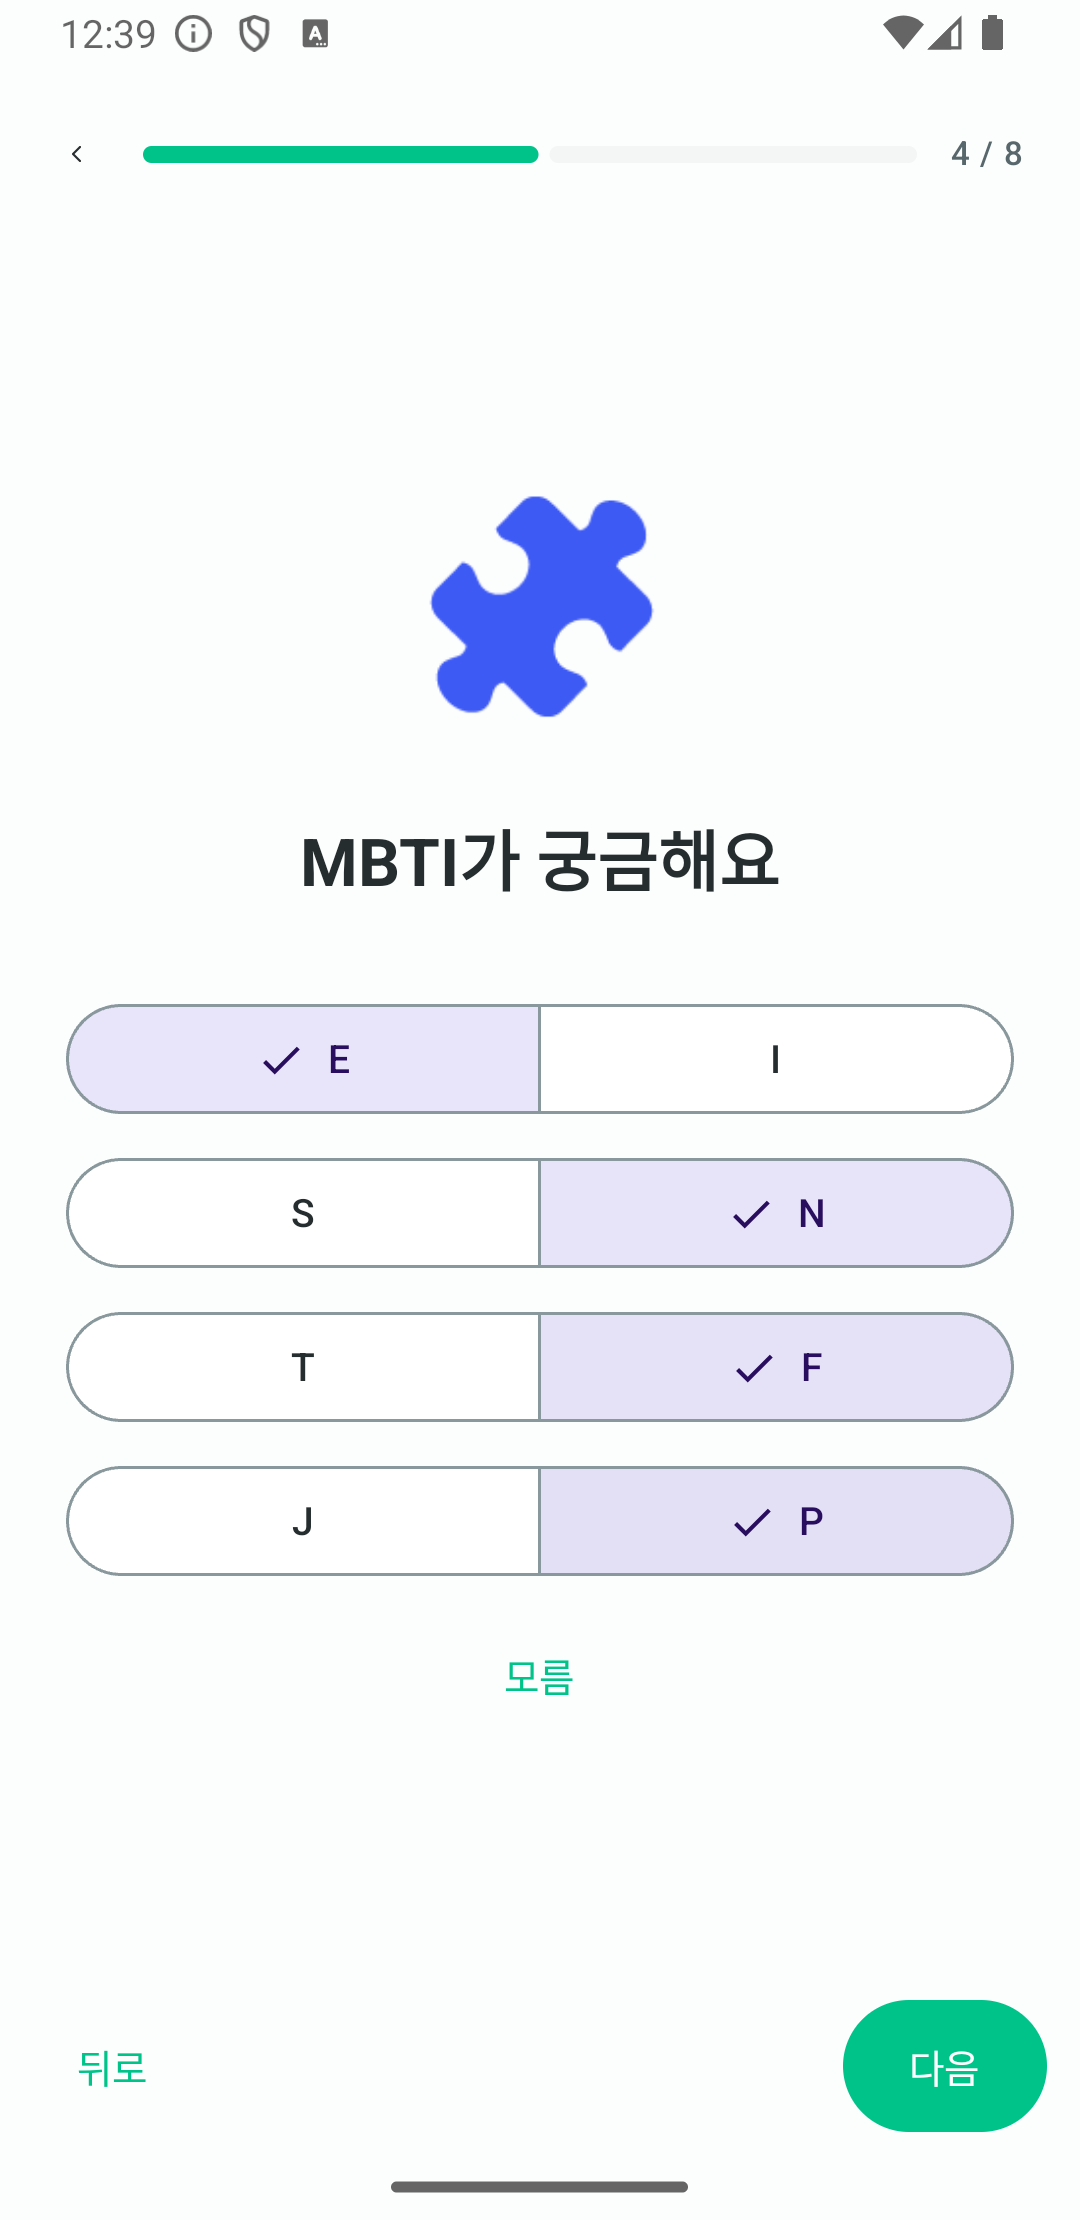
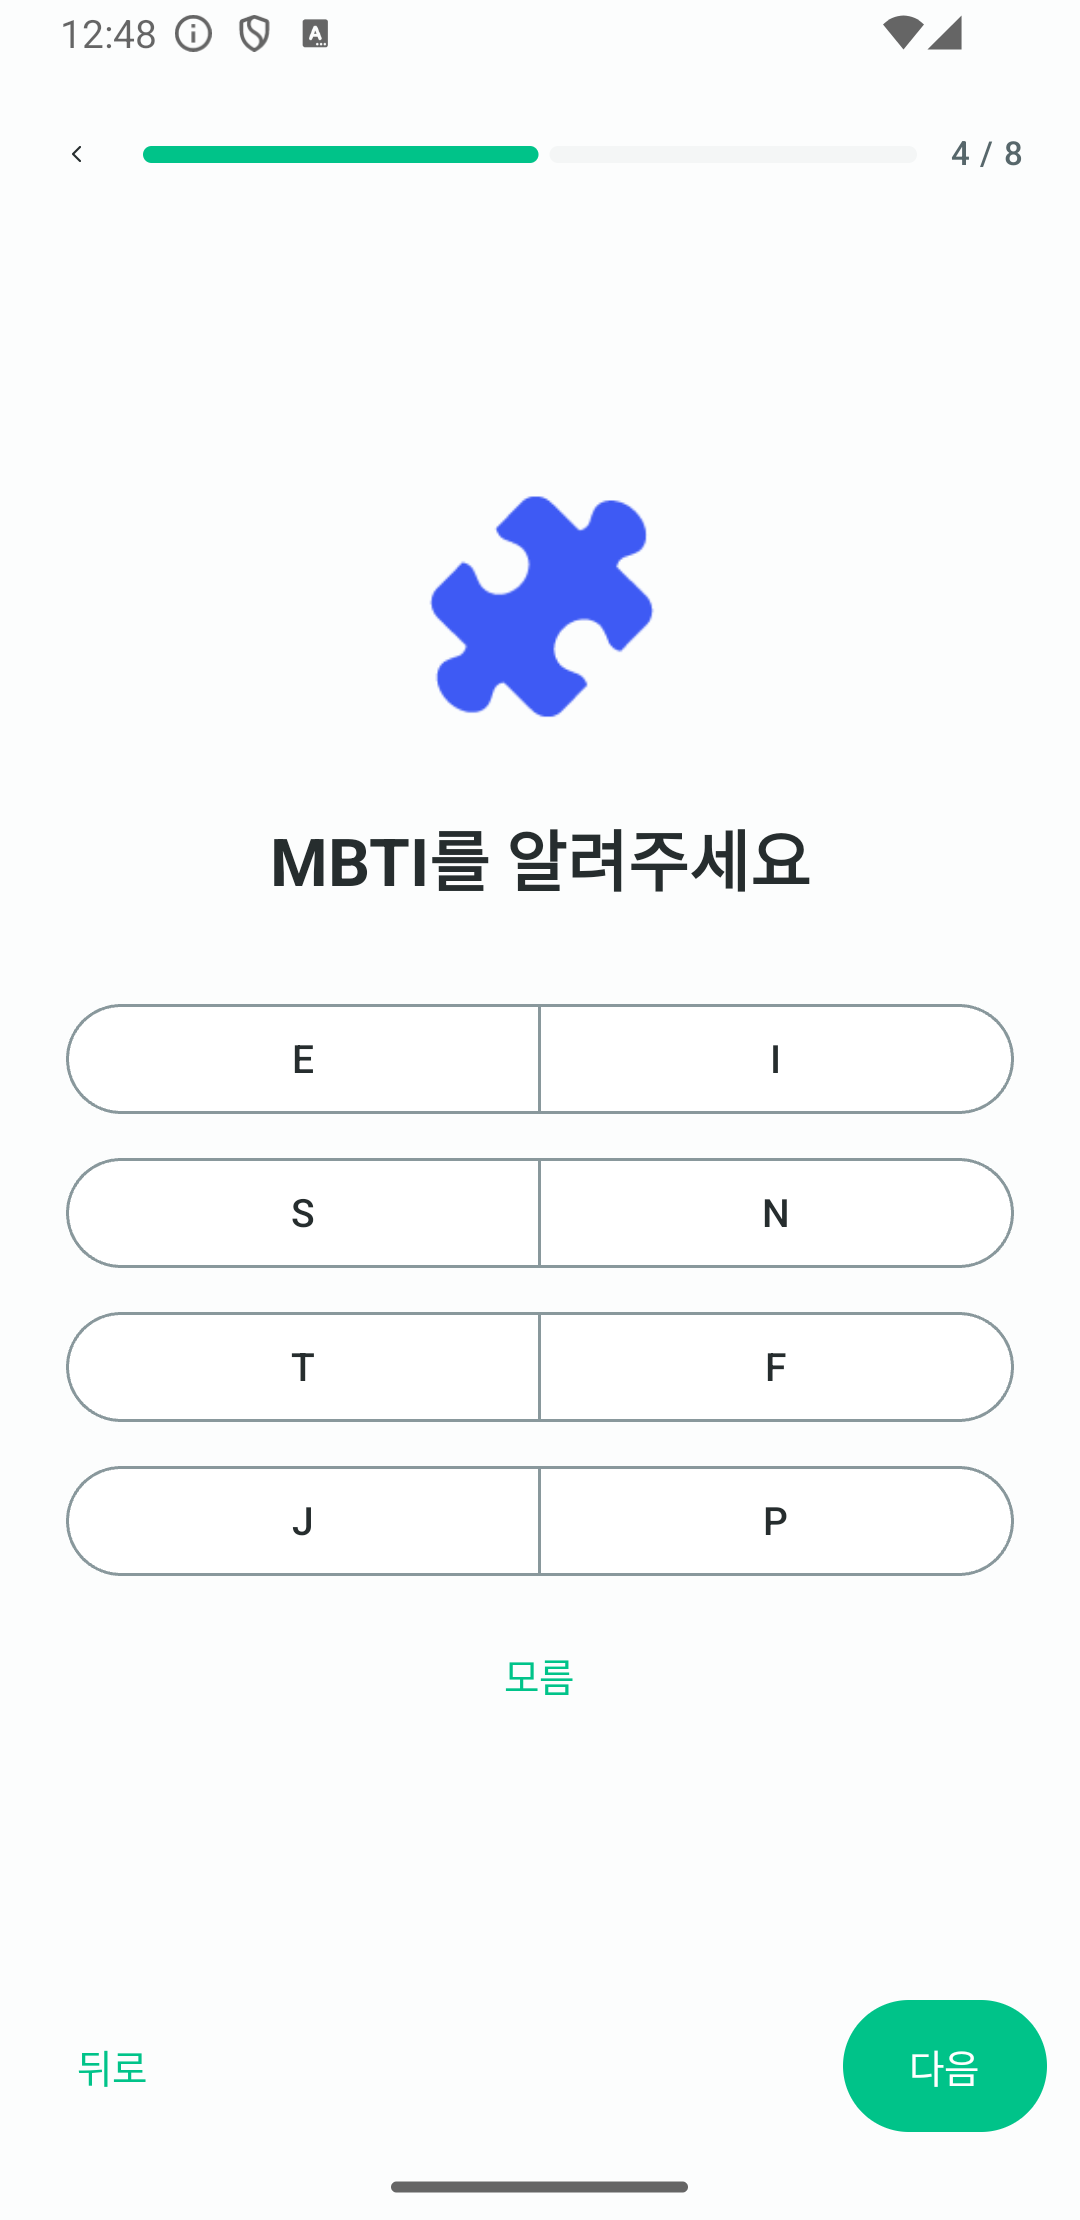
feat(app): Travit 로고·런처 아이콘 + 인트로 화면 + 질문형 온보딩
로고
- SVG를 벡터 드로어블로 변환: ic_travit_logo / ic_travit_symbol / ic_travit_wordmark
- 런처 아이콘을 심볼 기반 adaptive icon으로 교체 (연한 민트 배경 + 민트 심볼)
- 홈 화면 타이틀 위에 심볼 배치

인트로 (IntroScreen 신규)
- 심볼 → 워드마크 → 태그라인이 순차로 나타난 뒤 홈으로 자동 전환, 탭하면 스킵
- Screen.Intro 를 앱 시작 화면으로

질문형 온보딩 (ProfileScreen 재구성)
- 한 화면에 질문 하나: 이모지(정가운데, 토스페이스) → 질문 → 선택지
- 질문 8개(ProfileQuestion enum): 목적 / 성별 / 연령대 / MBTI / 음식 / 장소 / 걷기 / 취향 메모
- 단일 선택은 고르면 자동으로 다음 질문(autoAdvance), MBTI·다중·서술형은 [다음]
- 상단 진행 바 + n/8, [뒤로]·[건너뛰기], MBTI는 화면 안에 "모름"

정합성
- 질문 문구·이모지를 웹(ask.html)과 동일하게 통일
- 누락된 ic_map_pin 드로어블 추가

검증(Pixel 3a): 인트로 → 홈 → 설정(서울) → 질문 진행 → MBTI 화면까지 실기 확인.
화면 캡처는 docs/screenshots/ (07~12) 및 README에 게시.

diff --git a/code/app-kmp/composeApp/src/androidMain/kotlin/com/trevit/app/AppState.kt b/code/app-kmp/composeApp/src/androidMain/kotlin/com/trevit/app/AppState.kt
@@ -33,11 +33,11 @@ enum class ProfileQuestion(
     val autoAdvance: Boolean,
 ) {
     Purpose("🧭", "어떤 여행을 원하세요?", true),
-    Gender("👤", "성별을 알려주세요", true),
-    AgeGroup("🎂", "연령대는요?", true),
-    Mbti("🧩", "MBTI가 궁금해요", false),
+    Gender("🙂", "성별을 알려주세요", true),
+    AgeGroup("🎂", "연령대는 어떻게 되세요?", true),
+    Mbti("🧩", "MBTI를 알려주세요", false),
     Food("🍚", "어떤 음식을 좋아하세요?", true),
-    Places("🏞", "어떤 장소가 좋으세요?", false),
+    Places("🏞", "어떤 곳에 가고 싶으세요?", false),
     Walking("🚶", "많이 걷는 건 괜찮으세요?", true),
     Note("💬", "더 알려주실 취향이 있나요?", false),
     ;

diff --git a/code/frontend/public/js/ask.js b/code/frontend/public/js/ask.js
@@ -48,7 +48,7 @@
       options: ['10대', '20대', '30대', '40대', '50대+'],
     },
     {
-      emoji: '🧠',
+      emoji: '🧩',
       q: 'MBTI를 알려주세요',
       hint: '모르면 건너뛰어도 괜찮아요',
       type: 'mbti',

diff --git a/README.md b/README.md
@@ -31,13 +31,17 @@
 
 ## 2. 앱 화면 (Android)
 
-| 홈 | 여행 설정 | 프로필 |
+| 인트로 | 여행 설정 | 취향 질문 |
 |:-:|:-:|:-:|
-| <img src="docs/screenshots/01_home.png" width="200"/> | <img src="docs/screenshots/02_setup.png" width="200"/> | <img src="docs/screenshots/03_profile.png" width="200"/> |
+| <img src="docs/screenshots/07_intro.png" width="200"/> | <img src="docs/screenshots/02_setup.png" width="200"/> | <img src="docs/screenshots/08_question.png" width="200"/> |
 
-| 결과 (AI 추천 이유) | 여정 (경로 안내) | 도착 공개 |
+| MBTI 질문 | 결과 (AI 추천 이유) | 여정 (경로 안내) |
 |:-:|:-:|:-:|
-| <img src="docs/screenshots/04_result.png" width="200"/> | <img src="docs/screenshots/05_journey.png" width="200"/> | <img src="docs/screenshots/06_reveal.png" width="200"/> |
+| <img src="docs/screenshots/09_question_mbti.png" width="200"/> | <img src="docs/screenshots/04_result.png" width="200"/> | <img src="docs/screenshots/05_journey.png" width="200"/> |
+
+| 도착 공개 | 취향 메모 | 런처 아이콘 |
+|:-:|:-:|:-:|
+| <img src="docs/screenshots/06_reveal.png" width="200"/> | <img src="docs/screenshots/10_question_note.png" width="200"/> | <img src="docs/screenshots/12_launcher_icon.png" width="200"/> |
 
 ## 3. 핵심 사용자 경험
 
